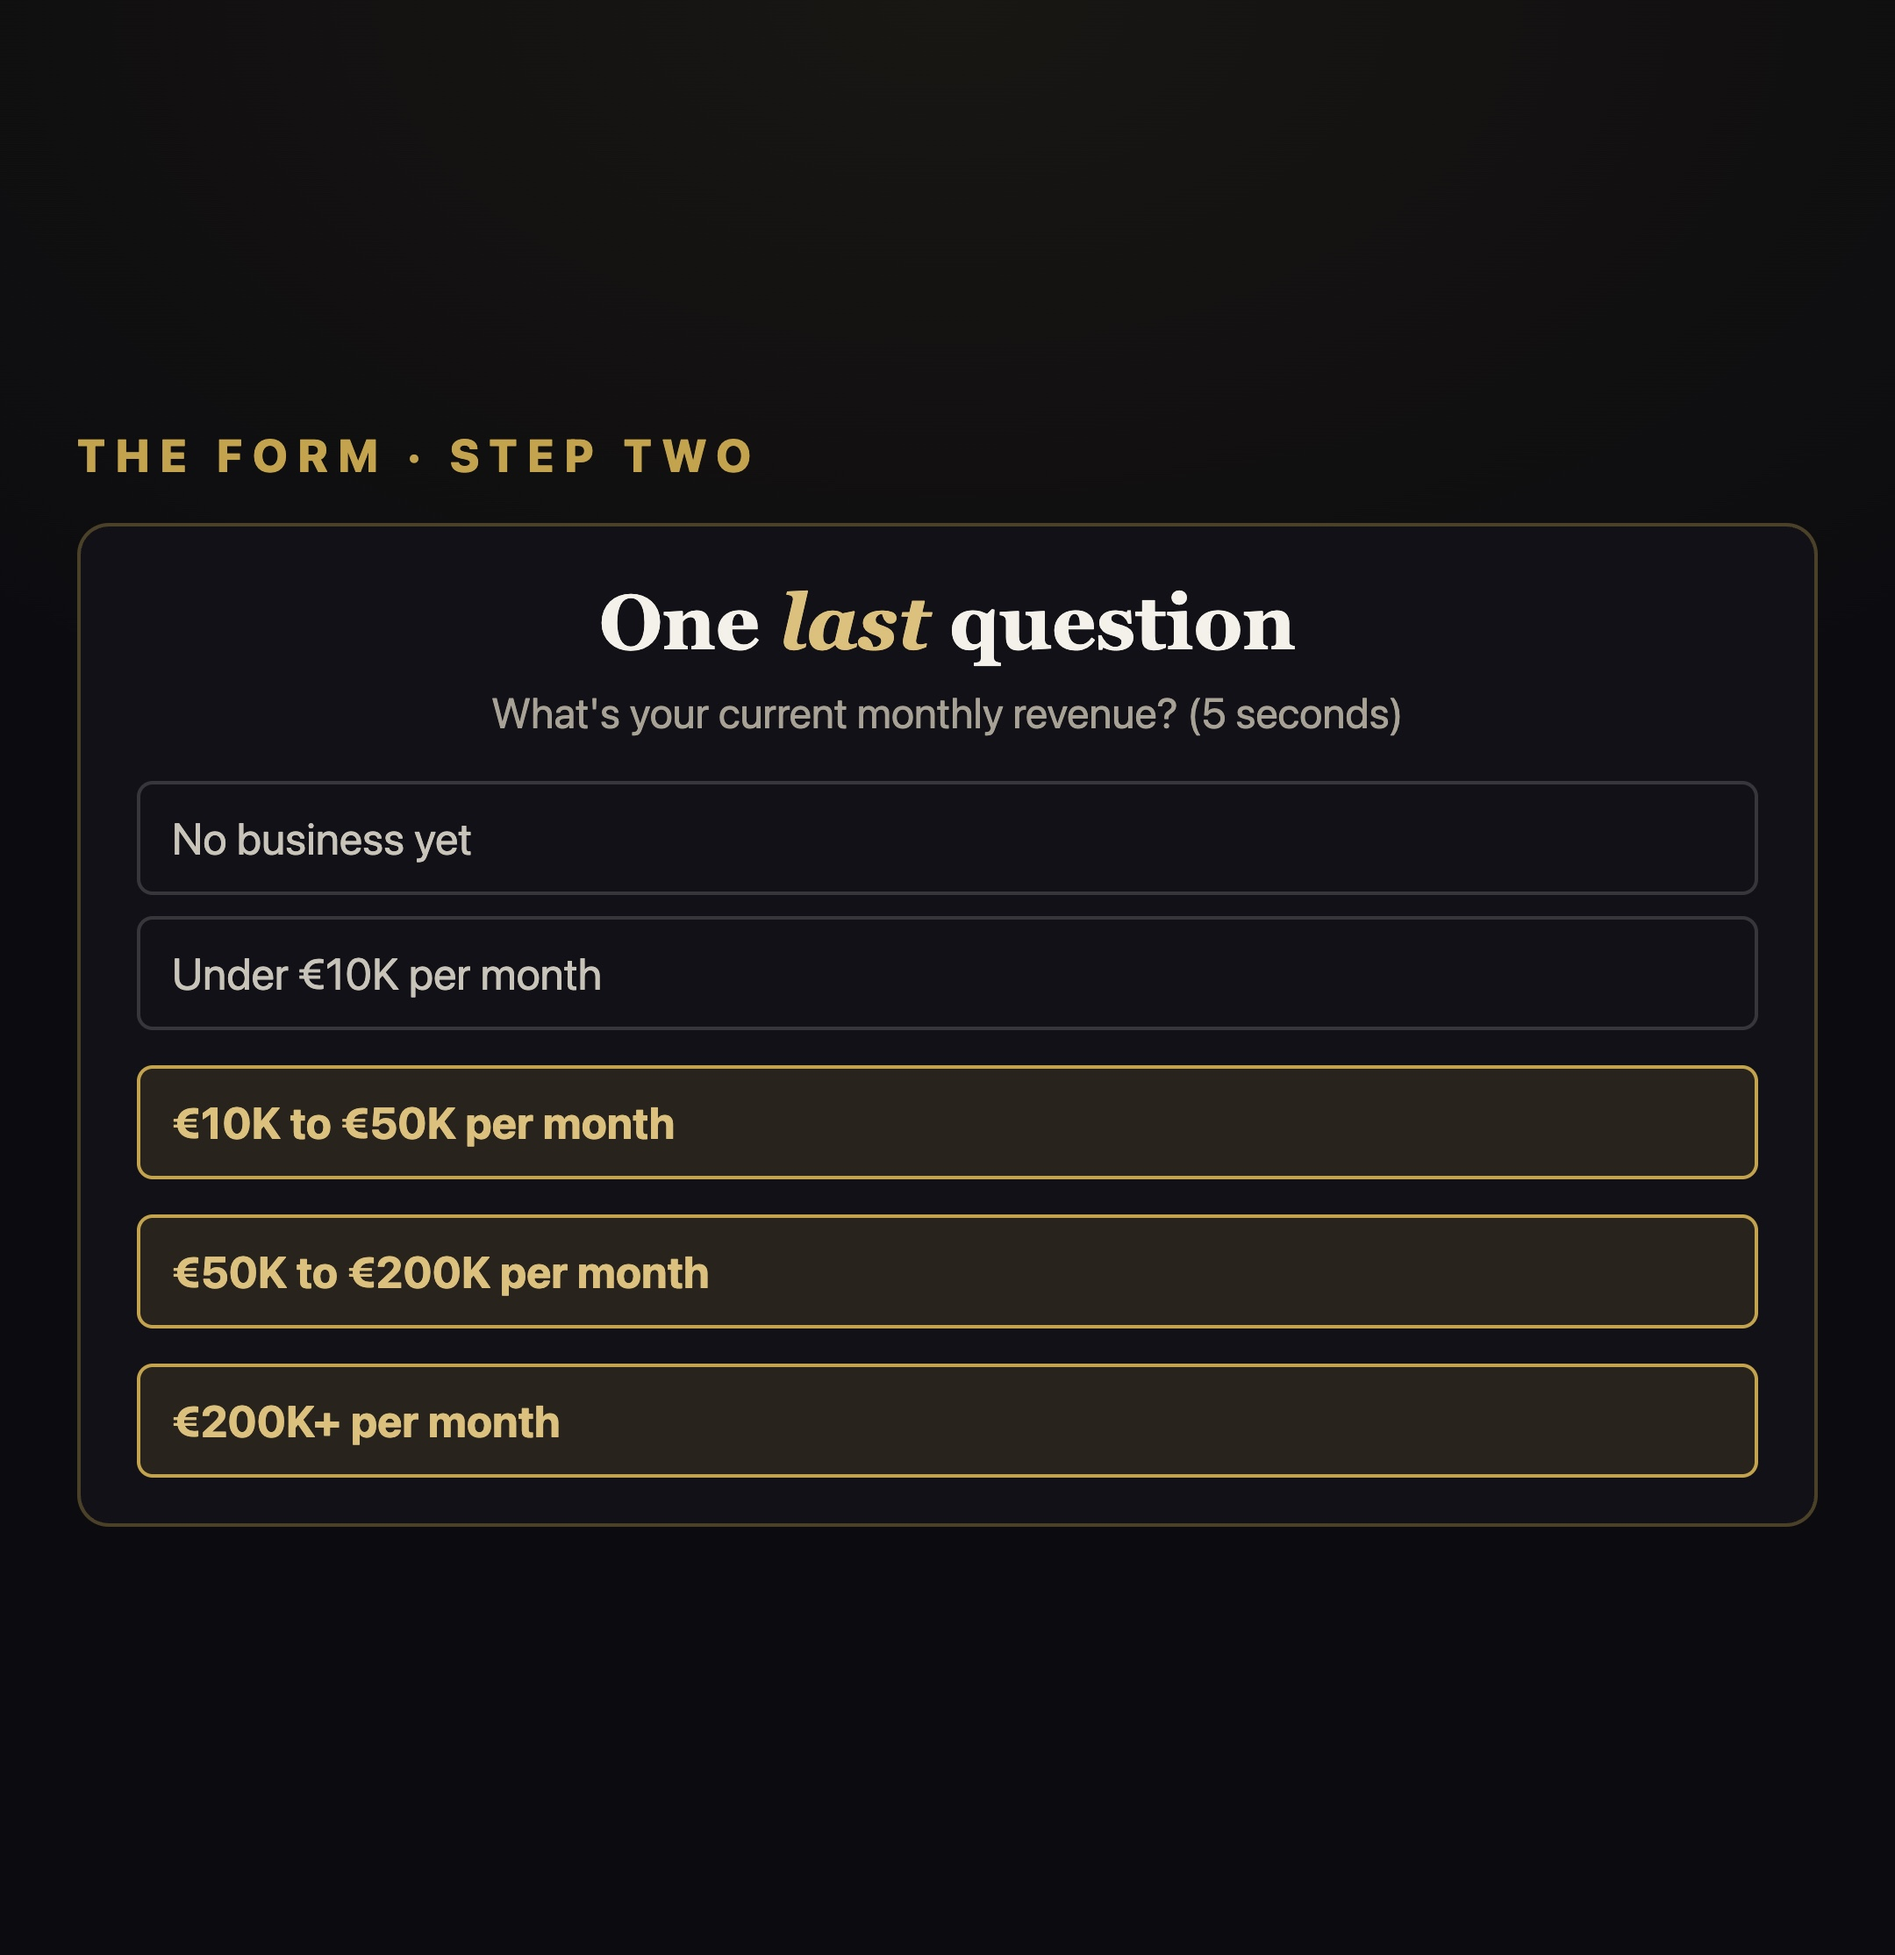
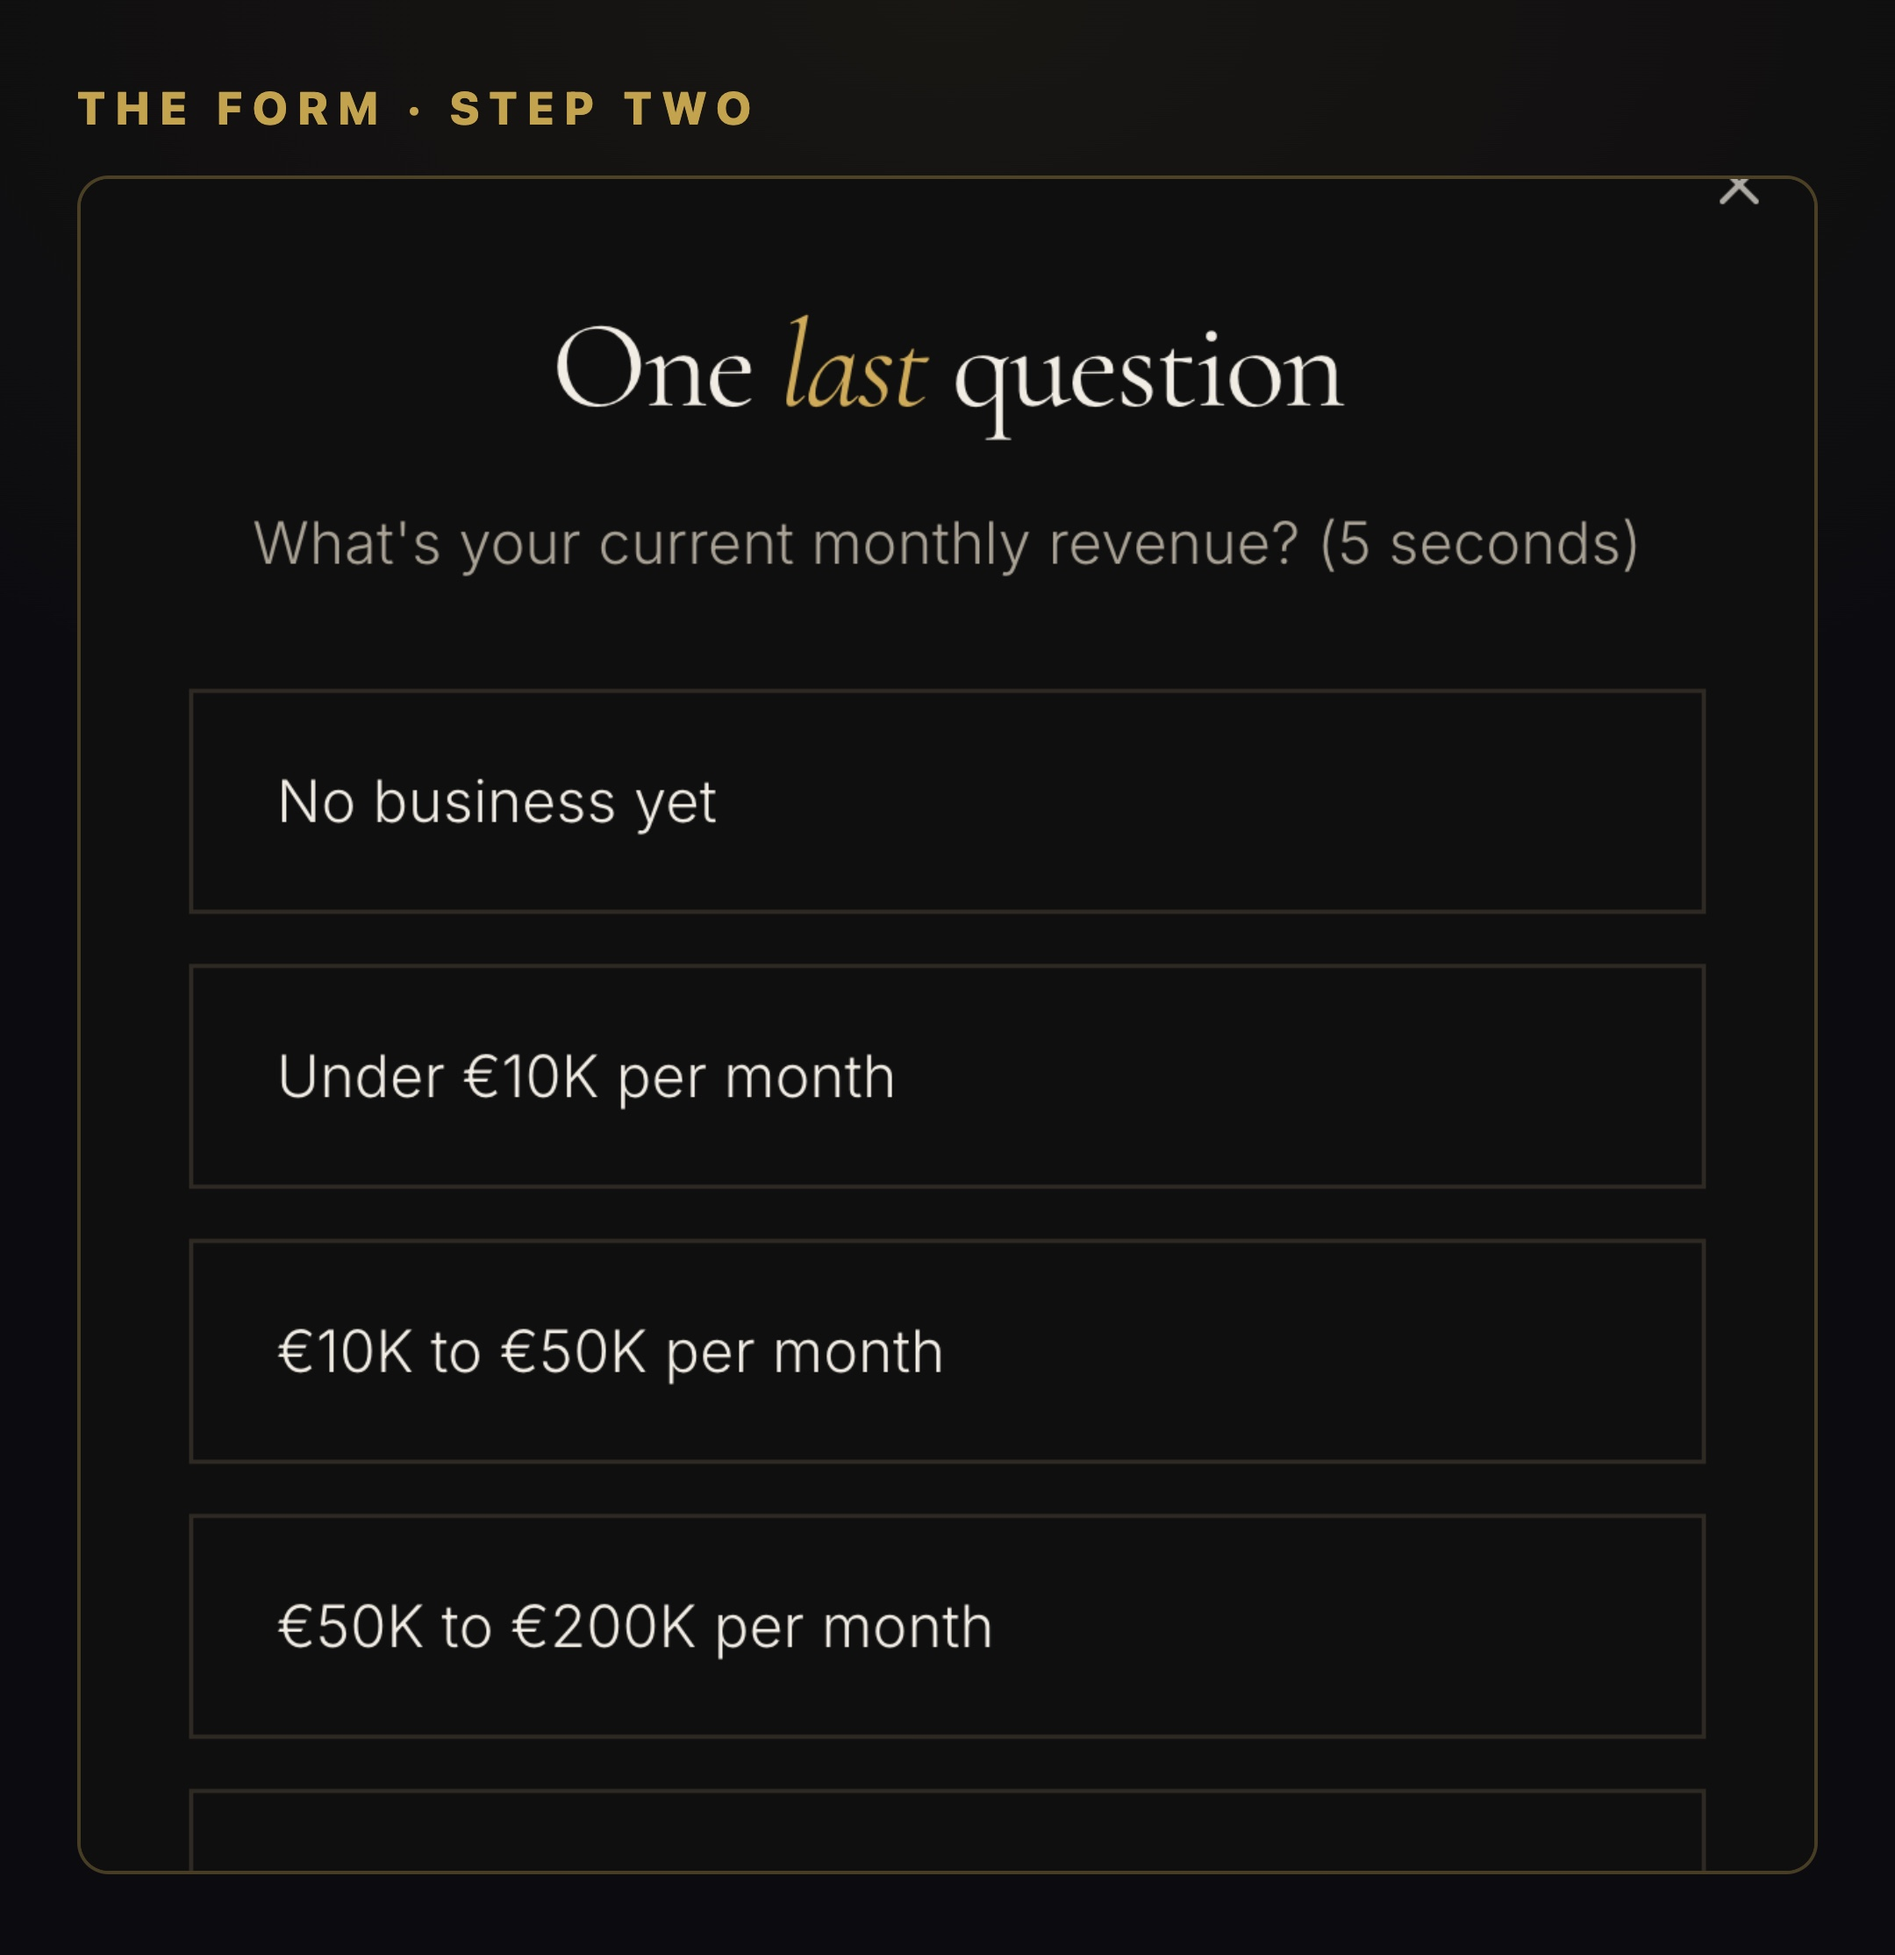
Real step-two capture; analytics frames rebuilt on verified numbers in dollars

diff --git a/frames-funnel.html b/frames-funnel.html
@@ -258,38 +258,34 @@
   <div class="shot"><img src="img/ty-s4.png" alt=""></div>
 </div>
 
-<!-- g10 · the qualifier (reproduction, not a capture) -->
-<div class="f" id="g10" style="padding:44px 44px">
+<!-- g10 · the qualifier, real capture -->
+<div class="f" id="g10" style="padding:46px 44px">
   <div class="eb">The form &middot; step two</div>
-  <div class="mockbig">
-    <div class="mt">One <i>last</i> question</div>
-    <div class="ms">What's your current monthly revenue? (5 seconds)</div>
-    <div class="opts2">
-      <div class="o">No business yet</div>
-      <div class="o">Under &euro;10K per month</div>
-      <div class="o q">&euro;10K to &euro;50K per month</div>
-      <div class="o q">&euro;50K to &euro;200K per month</div>
-      <div class="o q">&euro;200K+ per month</div>
-    </div>
+  <div class="shot"><img src="img/ob-form2.png" alt=""></div>
+</div>
+
+<div class="f" id="g12" style="padding:44px 42px">
+  <div class="eb">Where the ad platform stops looking</div>
+  <div class="fun">
+    <div class="fs"><span class="ix">01</span><span class="nm">Registrations<small style="display:block;font-size:22px;color:var(--mut)">Meta reports this</small></span><span class="vv">191</span></div>
+    <div class="arw" style="color:#c0453d;font-size:22px;letter-spacing:.16em;font-weight:800;margin:14px 0">— — —  META'S VISION ENDS HERE  — — —</div>
+    <div class="fs hi"><span class="ix">02</span><span class="nm">Qualified &euro;10K+/mo<small style="display:block;font-size:22px;color:var(--mut)">invisible to the platform</small></span><span class="vv">61</span></div>
+    <div class="fs hi"><span class="ix">03</span><span class="nm">Calls booked &amp; held<small style="display:block;font-size:22px;color:var(--mut)">invisible to the platform</small></span><span class="vv">16</span></div>
+    <div class="fs hi"><span class="ix">04</span><span class="nm">Enrolments<small style="display:block;font-size:22px;color:var(--mut)">invisible to the platform</small></span><span class="vv">6</span></div>
+    <div class="fs hi"><span class="ix">05</span><span class="nm">Contracted<small style="display:block;font-size:22px;color:var(--mut)">invisible to the platform</small></span><span class="vv">~$100,000</span></div>
   </div>
 </div>
 
-<div class="f" id="g12" style="padding:46px 44px">
-  <div class="eb">And everything lands here</div>
-  <div class="shot"><img src="img/s-chain.jpg" alt=""></div>
-</div>
-
-<!-- g13 · what we track -->
 <div class="f" id="g13" style="padding:46px 46px">
   <div class="eb">What we track on it</div>
   <div class="trk">
-    <div class="tr3"><div class="k">Opt-in rate per variant</div><div class="v">So the A/B test can actually be read, instead of guessed at</div></div>
-    <div class="tr3"><div class="k">Cost per qualified opt-in</div><div class="v">Not cost per lead. The one that predicts money.</div></div>
-    <div class="tr3"><div class="k">Which ads bring the best leads</div><div class="v">Not the cheapest clicks. The ones who answered €10K+.</div></div>
+    <div class="tr3"><div class="k">Opt-in rate per variant</div><div class="v">5 headlines live &middot; 2.97% to 4.14%</div></div>
+    <div class="tr3"><div class="k">Cost per qualified registration</div><div class="v">
+      <span style="color:var(--gold-soft);font-weight:800">$96</span> &nbsp;&mdash;&nbsp; not cost per lead, which was $31</div></div>
+    <div class="tr3"><div class="k">Which ads bring the &euro;10K+ people</div><div class="v">One ad produced 23 qualified. Six produced none.</div></div>
   </div>
 </div>
 
-<!-- g14 · CTA -->
 <div class="f" id="g14">
   <div class="eb">The whole build</div>
   <h1 class="sm">Comment <span>FUNNEL</span></h1>

diff --git a/index.html b/index.html
@@ -122,8 +122,8 @@
         {img:'img/t3.jpg', s:"Step two, join the WhatsApp. That's where the gift and the reminders live."},
         {img:'img/t4.jpg', s:"Step three, add it to the calendar."},
         {img:'img/t5.jpg', s:"Step four, check the confirmation email."},
-        {img:'img/g12.jpg', s:"And every one of those pages reports into here."},
-        {img:'img/g13.jpg', s:"Three things. Opt-in rate per variant. Cost per qualified opt-in, not cost per lead. And which ads bring the ten-grand-plus people."},
+        {img:'img/g12.jpg', s:"And every one of those pages reports into here. Meta could see a hundred and ninety one registrations. Everything under that red line it cannot see at all."},
+        {img:'img/g13.jpg', s:"Three things. Opt-in rate per variant. Cost per qualified registration, ninety six dollars, not the thirty one dollar lead. And which ads bring the ten-grand-plus people."},
         {img:'img/g14.jpg', s:"Comment FUNNEL and I'll send you our opt-in form SOPs."}
       ]
     },
